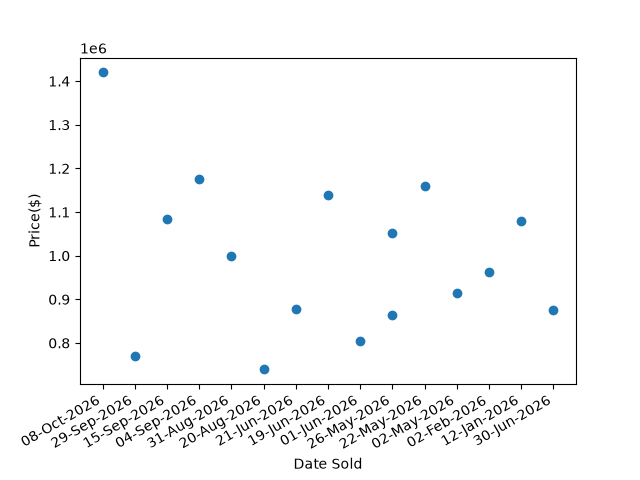
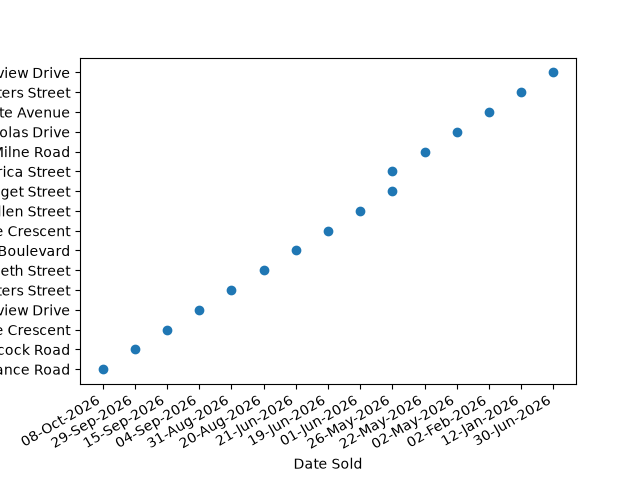
working out chart.js

diff --git a/templates/graphs.html b/templates/graphs.html
@@ -36,16 +36,12 @@
 
 <script>
   const ctx = document.getElementById('myChart');
-
+  const Data = {{ chart|tojson }};
   new Chart(ctx, {
-    type: 'bar',
-    data: {
-      labels: ['Red', 'Blue', 'Yellow', 'Green', 'Purple', 'Orange'],
-      datasets: [{
-        label: '# of Votes',
-        data: [12, 19, 3, 5, 2, 3],
-        borderWidth: 1
-      }]
+    type: 'scatter',
+    datasets: {
+      label: Data.labels,
+      data: Data.y
     },
     options: {
       scales: {

diff --git a/app.py b/app.py
@@ -38,6 +38,7 @@ def graphs():
      data = conn.execute("SELECT * FROM sold").fetchall()
      columnnames = ["ID","Address","Date Sold","Price($)","# of Beds","Size(m²)"]
      df = pd.DataFrame(data, columns = columnnames)
+     chart = {}
      def graph(x,y):
           fig,ax =plt.subplots()
           ax.scatter(df[x],df[y])
@@ -47,10 +48,15 @@ def graphs():
           fig.savefig('static/graph.png')
           plt.close(fig)
      if request.method =="POST":
-          x = request.form.get("x")
-          y = request.form.get("y")
-          graph(x,y)
-     return render_template('graphs.html',options = columnnames)
+          x = df[request.form.get("x")]
+          y = df[request.form.get("y")]
+          chart= {
+          'labels': df['Address'].tolist(),
+          f'y': df[y].tolist(),
+          }
+          
+          print(x,y)
+     return render_template('graphs.html',options = columnnames,chart=chart)
 
 @app.route('/predict')
 def predict():
